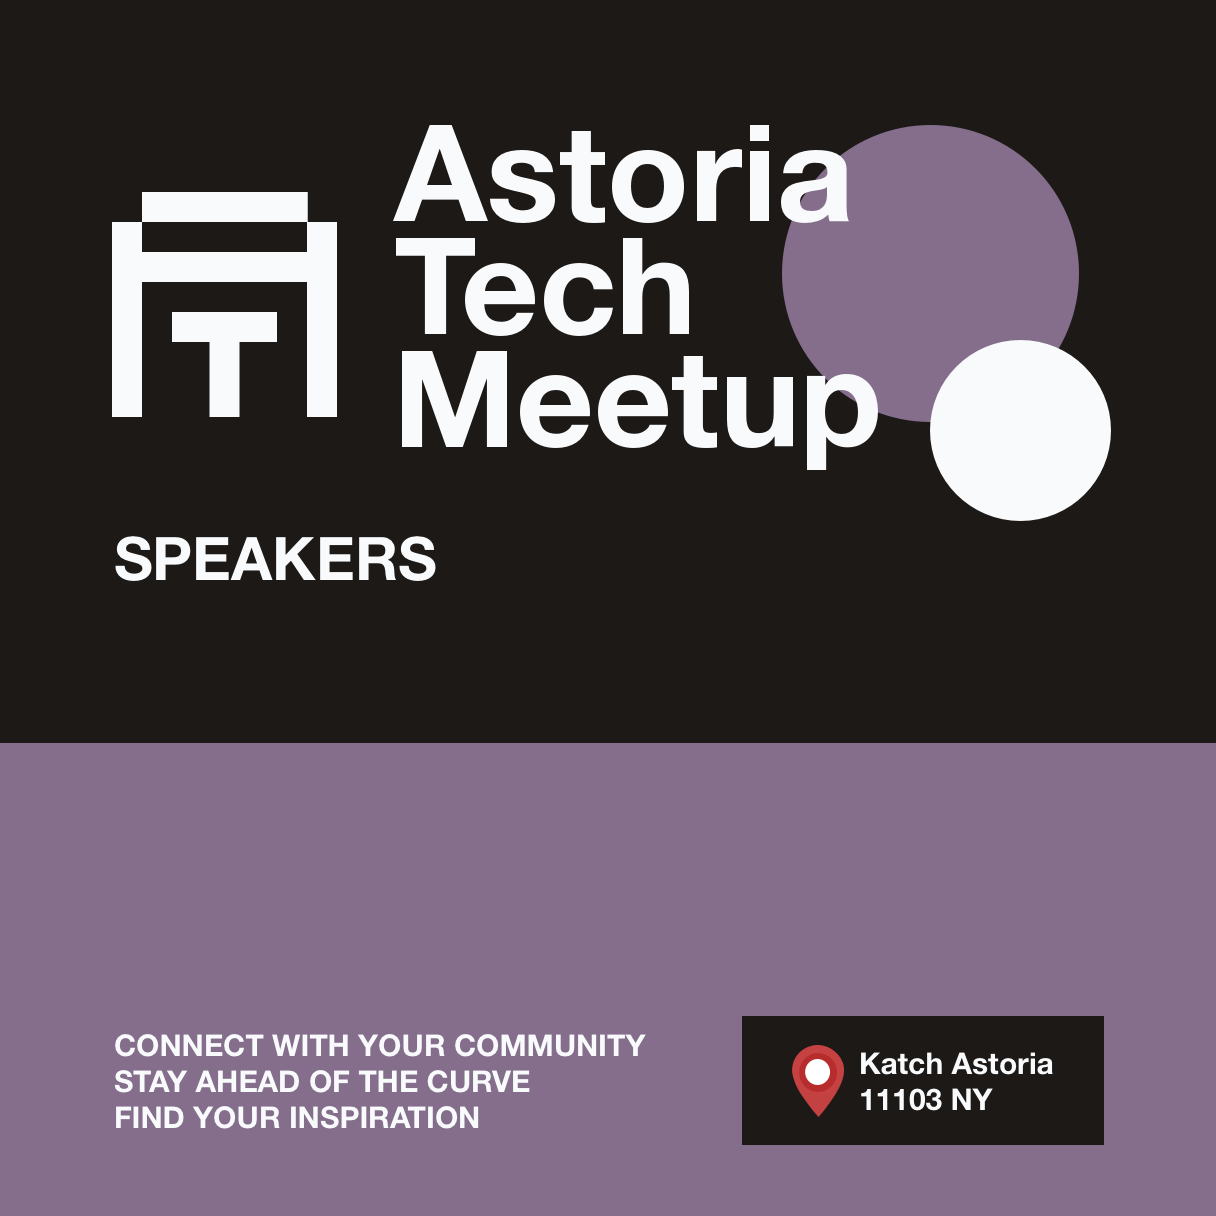
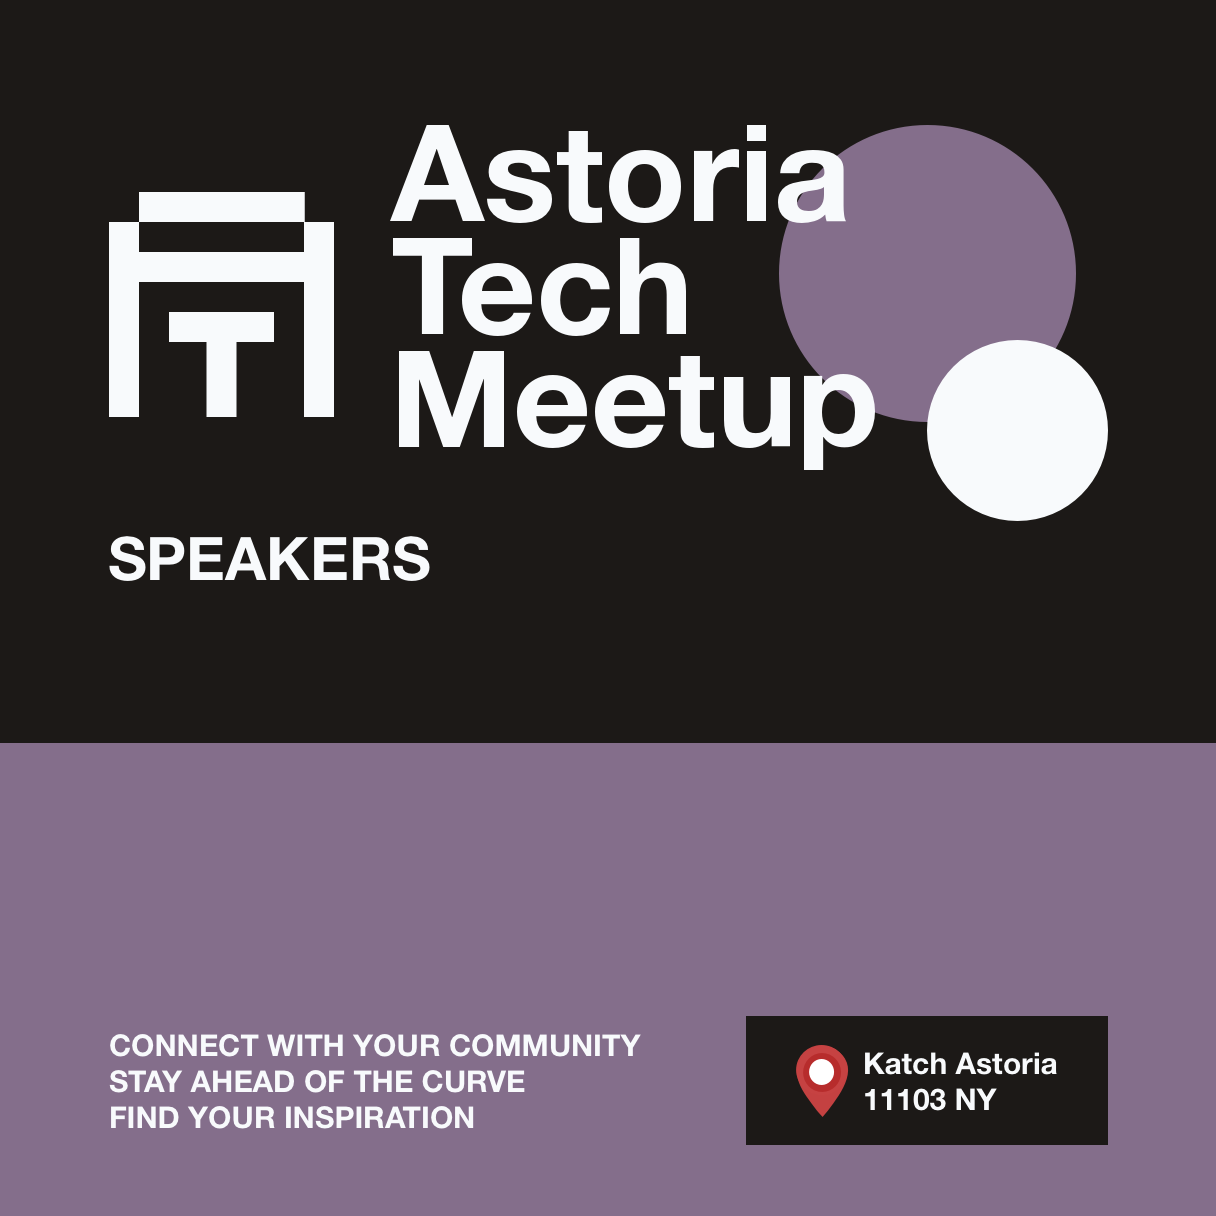
adds caching, and new smaller image for meetup.com

diff --git a/packages/image-generator/fetch.ts b/packages/image-generator/fetch.ts
@@ -1,28 +1,46 @@
+import * as fs from 'fs/promises'
+import mime from 'mime-types'
 import { generateEventImage as _generateEventImage, type Speaker as _Speaker, type Options as _Options } from './core'
+import * as path from 'path'
 
 interface Speaker extends _Speaker {
   githubUsername?: string;
 }
 
 export interface Options extends _Options {
-  speakers: Speaker[]
+  speakers: Speaker[],
+  clearCache?: boolean;
 }
 
-async function fetchImage(url: string): Promise<Buffer> {
+async function fetchImage(url: string, speakerName: string, clearCache: boolean): Promise<Buffer> {
+  const slug = speakerName.toLowerCase().replace(/\s/g, '');
+  const speakerImagesDir = path.join(__dirname, '../..', 'public/speakers');
+  const files = await fs.readdir(speakerImagesDir);
+  const existingFile = files.find(file => file.startsWith(slug));
+  if (existingFile && clearCache !== true) {
+    return await fs.readFile(path.join(speakerImagesDir, existingFile));
+  }
   const response = await fetch(url);
+  const contentType = response.headers.get('content-type');
+  const extensionFromMime = mime.extension(contentType)
+  const extension = contentType ? extensionFromMime : url.split('.').pop();
+  const fileName = `${slug}.${extension}`;
+  const location = path.join(speakerImagesDir, fileName);
   const buffer = await response.arrayBuffer();
-  return Buffer.from(buffer);
+  const nodeBuffer = Buffer.from(buffer);
+  await fs.writeFile(location, nodeBuffer)
+  return nodeBuffer;
 }
 
 export async function generateEventImage(options: Options) {
-  const { speakers, ...rest } = options;
+  const { speakers, clearCache, ...rest } = options;
 
   for (const speaker of speakers) {
     if (speaker.githubUsername) {
-      const buffer = await fetchImage(`https://github.com/${speaker.githubUsername}.png`);
+      const buffer = await fetchImage(`https://github.com/${speaker.githubUsername}.png`, speaker.name, clearCache);
       speaker.buffer = buffer;
     } else if (speaker.profileImage && speaker.profileImage.startsWith('http')) {
-      const buffer = await fetchImage(speaker.profileImage);
+      const buffer = await fetchImage(speaker.profileImage, speaker.name, clearCache);
       speaker.buffer = buffer;
     }
   }

diff --git a/packages/image-generator/core.ts b/packages/image-generator/core.ts
@@ -78,7 +78,11 @@ export type Options = {
   speakerImagePctGapWidth: number,
   speakerImagePctMaxWidth: number,
   dateDay: string,
-  dateMonth: string
+  dateMonth: string,
+  dateDayX: number,
+  dateDayY: number,
+  dateMonthX: number,
+  dateMonthY: number,
 }
 
 export async function generateEventImage(options: Options) {
@@ -91,7 +95,13 @@ export async function generateEventImage(options: Options) {
     speakerImagePctGapWidth,
     speakerImagePctMaxWidth,
     dateDay,
-    dateMonth
+    dateMonth,
+    dateDayTop,
+    dateDayLeft,
+    dateMonthTop,
+    dateMonthLeft,
+    timeTop,
+    timeLeft,
   } = options;
   try {
     const templateBuffer = readTemplateFile(templatePath);
@@ -120,8 +130,6 @@ export async function generateEventImage(options: Options) {
     const speakerImages = await Promise.all(speakers.map((speaker, index) =>
       processSpeakerImage(defaultSpeakerImageBuffer, speaker, speakerWidth, speakerImageYOffset, speakerImageGapWidth,  startLeft, index)));
 
-    const maxNameLength = Math.max(...speakers.map(speaker => speaker.name.length))
-  
     const nameOverlays = speakers.map((speaker, index) => ({
       input: Buffer.from(generateSpeakerNameSvg(speaker.name, speakerWidth, 25, `30px`)),
       top: speakerImageYOffset + speakerWidth + 5,
@@ -130,20 +138,20 @@ export async function generateEventImage(options: Options) {
 
     const dateOverlay = {
       input: createDateSvg(dateDay, "250px", "300px", 'white', '80px'),
-      top: 110,
-      left: 806,
+      top: dateDayTop,
+      left: dateDayLeft,
     };
 
     const dateMonthOverlay = {
       input: createDateSvg(dateMonth, "250px", "300px", 'white', '60px'),
-      top: 175,
-      left: 806,
+      top: dateMonthTop,
+      left: dateMonthLeft,
     };
 
     const time = {
       input: createDateSvg('7pm', "250px", "300px", 'black', '60px'),
-      top: 300,
-      left: 896,
+      top: timeTop,
+      left: timeLeft,
     };
 
     if (outputPath) {
